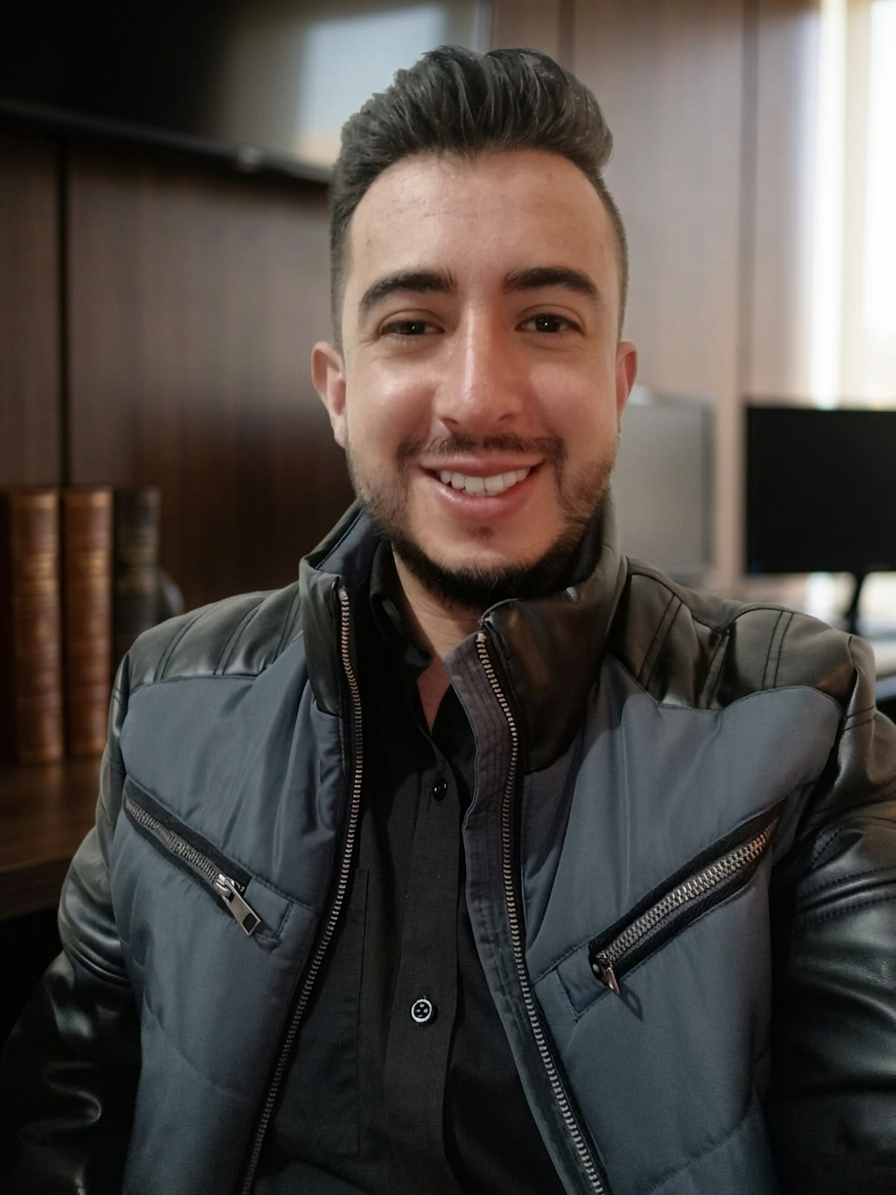
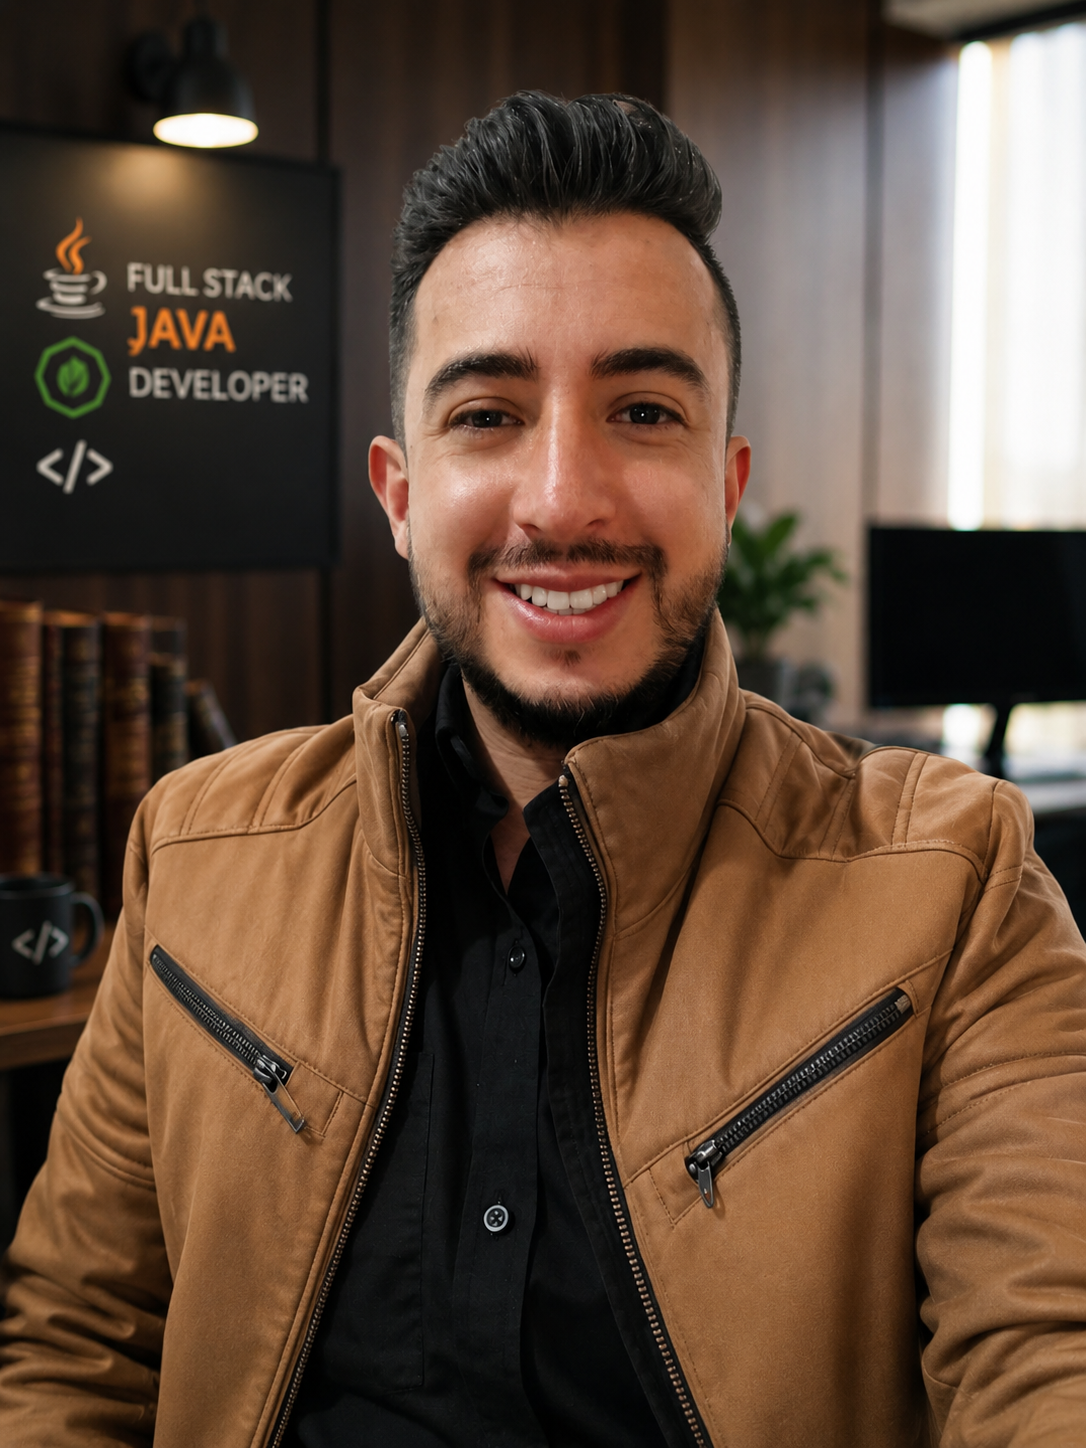
Actualizar fotos profesionales del equipo en About Us

diff --git a/pages/aboutUs/aboutUs.html b/pages/aboutUs/aboutUs.html
@@ -222,7 +222,7 @@
                 <div class="flip-card-front team-card text-center">
                   <div class="img-container">
                     <img
-                      src="/assets/images/equipo/marcela.jpg"
+                      src="/assets/images/equipo/marcela.png"
                       class="team-img"
                       alt="Foto Marcela"
                     />
@@ -270,7 +270,7 @@
                 <div class="flip-card-front team-card text-center">
                   <div class="img-container">
                     <img
-                      src="/assets/images/equipo/luis.jpg"
+                      src="/assets/images/equipo/luis.png"
                       class="team-img"
                       loading="lazy"
                       alt="Foto-perfil-luis"
@@ -369,7 +369,7 @@
                 <div class="flip-card-front team-card text-center">
                   <div class="img-container">
                     <img
-                      src="/assets/images/equipo/angie.jpg"
+                      src="/assets/images/equipo/angie.png"
                       class="team-img"
                       loading="lazy"
                       alt="Foto-perfil-angie"
